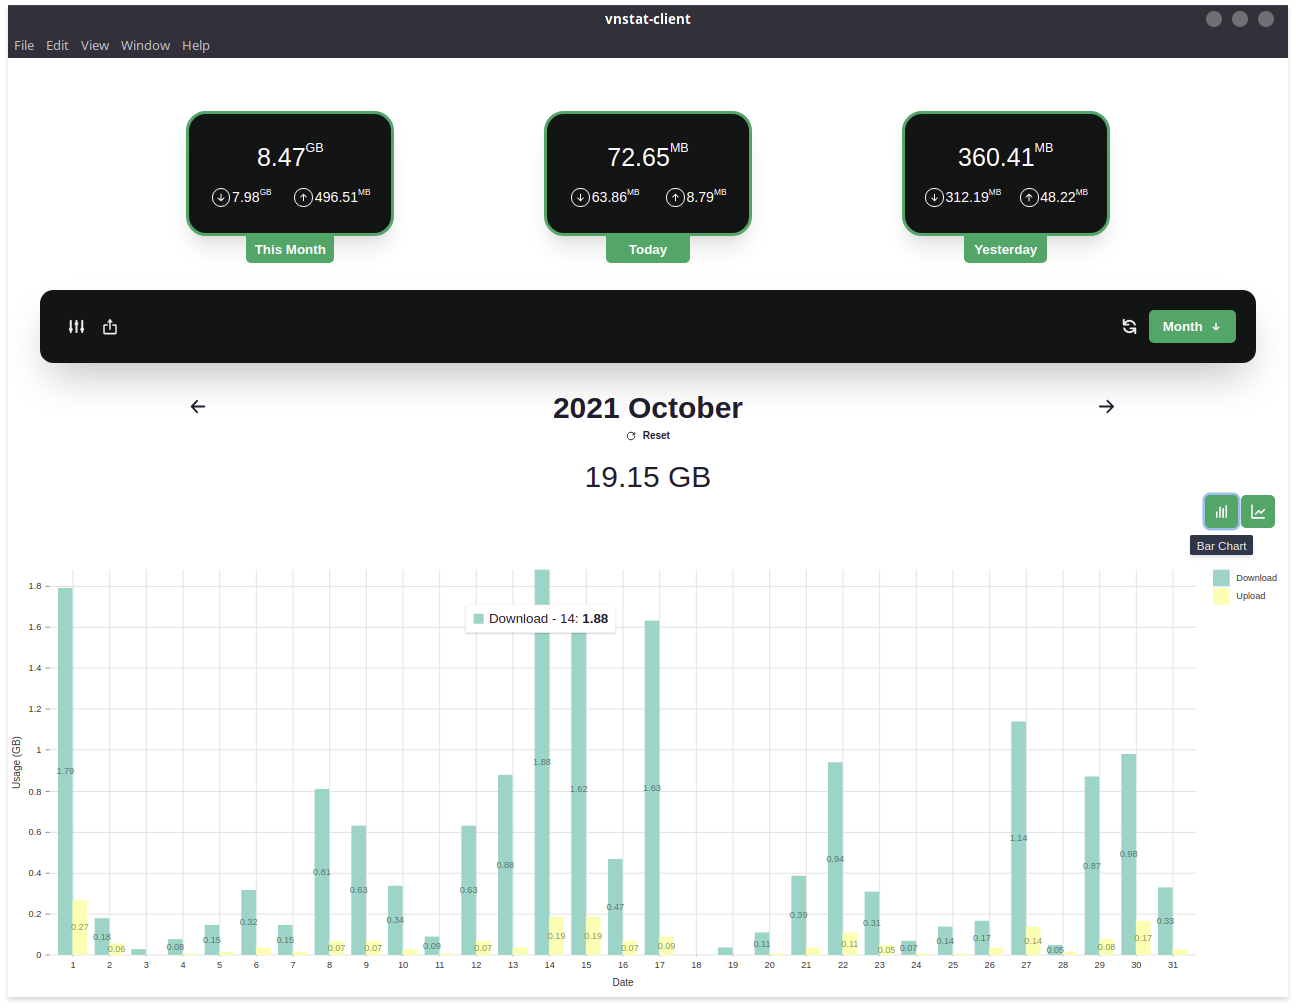
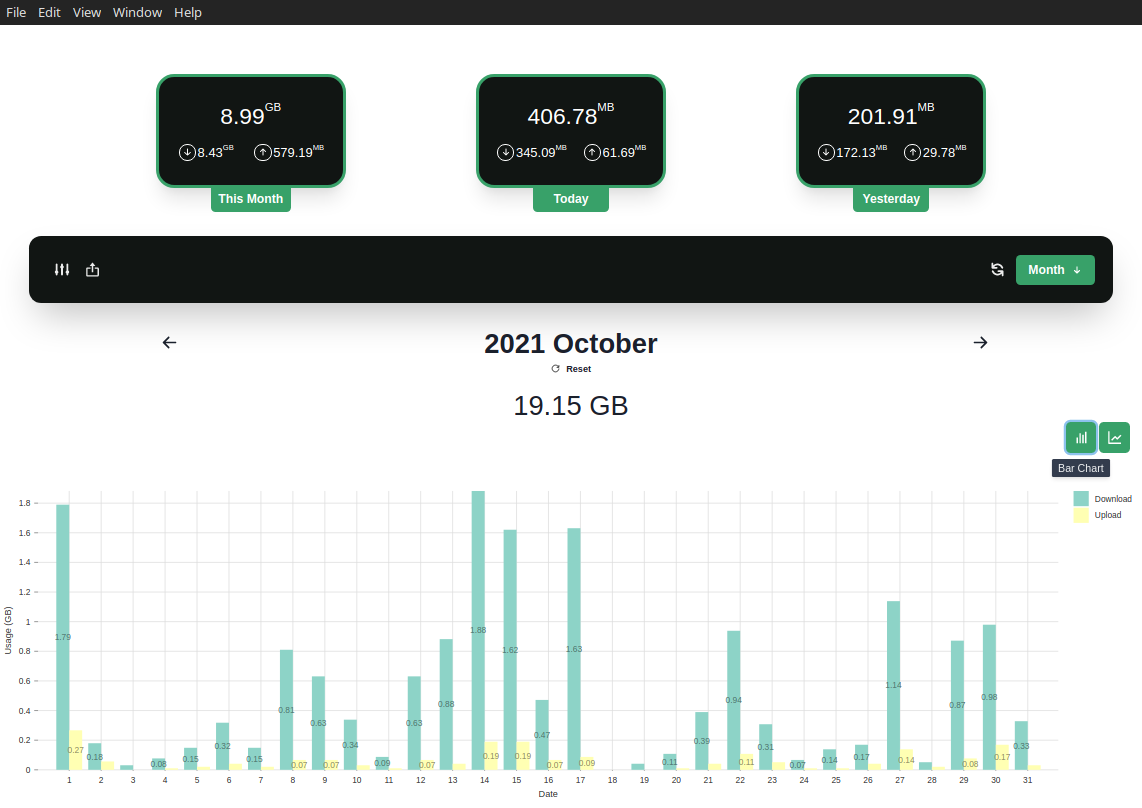
Fix some bugs

diff --git a/renderer/components/MainUsage.js b/renderer/components/MainUsage.js
@@ -1,9 +1,10 @@
 import { BsArrowDownShort, BsArrowUpShort } from "react-icons/bs";
 import { Box, Flex } from "@chakra-ui/react";
-import { format } from "date-fns";
 import { useEffect, useState } from "react";
-import { ipcRenderer } from "electron";
+import { useUsage } from "../context/dataUsage";
+
 export default function MainUsage() {
+	const { main, dataIsReady } = useUsage();
 	const [usage, setUsage] = useState([
 		{
 			interval: "today",
@@ -19,9 +20,8 @@ export default function MainUsage() {
 		},
 	]);
 	useEffect(() => {
-		ipcRenderer.send("getMainData", 2);
-		ipcRenderer.on("sendMainData", (e, result) => setUsage(result));
-	}, []);
+		setUsage(main);
+	}, [dataIsReady]);
 
 	return (
 		<Flex justify='space-evenly' width='95%' my={16}>
@@ -67,8 +67,8 @@ function UsageBox({ interval, tx = 0, rx = 0, total = 0 }) {
 
 				<Flex alignSelf='center' w='full' fontSize='17' justify='space-around'>
 					<Flex align='center'>
-						<Box border='white 2px solid' borderRadius='full' m='2px'>
-							<BsArrowDownShort size='1.1em' />
+						<Box m='2px'>
+							<BsArrowDownShort size='1.3em' />
 						</Box>
 						{(rx > 1024 ? rx / 1024 : rx)?.toFixed(2)}
 						<Box fontSize={10} alignSelf='start'>
@@ -76,8 +76,8 @@ function UsageBox({ interval, tx = 0, rx = 0, total = 0 }) {
 						</Box>
 					</Flex>
 					<Flex align='center'>
-						<Box border='white 2px solid' borderRadius='full' m='2px'>
-							<BsArrowUpShort size='1.1em' />
+						<Box m='2px'>
+							<BsArrowUpShort size='1.3em' />
 						</Box>
 						{(tx > 1024 ? tx / 1024 : tx)?.toFixed(2)}
 						<Box fontSize={10} alignSelf='start'>

diff --git a/renderer/pages/today.js b/renderer/pages/today.js
@@ -1,25 +1,21 @@
-import electron from "electron";
+import { useUsage } from "../context/dataUsage";
 
 import { useEffect, useState } from "react";
 import Chart from "../components/Chart";
 import useFilterDate from "../hooks/useFilterDate";
-
-import { getHours } from "date-fns";
 
 import SwitchBar from "../components/SwitchBar";
 import { Button, Heading, Flex } from "@chakra-ui/react";
 import { HiRefresh } from "react-icons/hi";
 import { format } from "date-fns/esm";
 export default function Hour() {
+	const { day, reloading, dataIsReady } = useUsage();
 	const [previousDays, setPreviousDays] = useState(0);
 	const [data, setData] = useState([]);
 
 	useEffect(() => {
-		electron.ipcRenderer.send("getDayData");
-		electron.ipcRenderer.on("dayData", (evt, result) => {
-			setData(result);
-		});
-	}, []);
+		setData(day);
+	}, [dataIsReady]);
 	const FilteredData = useFilterDate(data, "day", previousDays);
 	const dataUsage = FilteredData.reduce((a, b) => a + (b.tx + b.rx), 0);
 
@@ -42,7 +38,6 @@ export default function Hour() {
 		},
 	];
 
-	console.log(lineChartData, "\n---\n", FilteredData);
 	const barChartData = FilteredData.map((e) => ({
 		date: format(new Date(e.date), "haaa"),
 		Download: (e.rx / 1024).toFixed(2),
@@ -57,7 +52,10 @@ export default function Hour() {
 					<Button
 						leftIcon={<HiRefresh size='1.4em' />}
 						mr={1}
-						onClick={() => router.replace(router.asPath)}>
+						onClick={() => {
+							reloading();
+							router.replace(router.asPath);
+						}}>
 						Refresh
 					</Button>
 				</Flex>

diff --git a/renderer/pages/index.js b/renderer/pages/index.js
@@ -3,28 +3,24 @@ import { useState, useEffect } from "react";
 import useFilterDate from "../hooks/useFilterDate";
 import { getDate } from "date-fns";
 
-import { ipcRenderer } from "electron";
 import { useRouter } from "next/router";
 
 import SwitchBar from "../components/SwitchBar";
 import { Button, Heading, Flex } from "@chakra-ui/react";
 import { HiRefresh } from "react-icons/hi";
 
+import { useUsage } from "../context/dataUsage";
+
 export default function Month() {
 	const router = useRouter();
-
 	const [previousMonths, setPreviousMonths] = useState(0);
 	const [data, setData] = useState([]);
 
-	useEffect(() => {
-		ipcRenderer.send("getMonthData");
-		ipcRenderer.on("monthData", (evt, result) => setData(result));
+	const { month, reloading, dataIsReady } = useUsage();
 
-		// Cleaning
-		return () => {
-			ipcRenderer.removeAllListeners("monthData", "getMonthData");
-		};
-	}, []);
+	useEffect(async () => {
+		setData(month);
+	}, [dataIsReady]);
 
 	const FilteredData = useFilterDate(data, "month", previousMonths);
 	const dataUsage = FilteredData.reduce((a, b) => a + (b.tx + b.rx), 0);
@@ -59,7 +55,10 @@ export default function Month() {
 					<Button
 						leftIcon={<HiRefresh size='1.4em' />}
 						mr={1}
-						onClick={() => router.replace(router.asPath)}>
+						onClick={() => {
+							reloading();
+							router.replace(router.asPath);
+						}}>
 						Refresh
 					</Button>
 				</Flex>

diff --git a/renderer/pages/year.js b/renderer/pages/year.js
@@ -1,4 +1,4 @@
-import { ipcRenderer } from "electron";
+import { useUsage } from "../context/dataUsage";
 
 import { getMonth } from "date-fns";
 import Chart from "../components/Chart";
@@ -10,13 +10,15 @@ import { Button, Heading, Flex } from "@chakra-ui/react";
 import { HiRefresh } from "react-icons/hi";
 
 export default function Year() {
+	const { year, reloading, dataIsReady } = useUsage();
+
 	const [PreviousYears, setPreviousYears] = useState(0);
 	const [data, setData] = useState([]);
 
 	useEffect(() => {
-		ipcRenderer.send("getYearData");
-		ipcRenderer.on("yearData", (evt, result) => setData(result));
-	}, []);
+		setData(year);
+	}, [dataIsReady]);
+
 	const FilteredData = useFilterDate(data, "year", PreviousYears);
 	const dataUsage = FilteredData.reduce((a, b) => a + (b.tx + b.rx), 0);
 
@@ -50,7 +52,10 @@ export default function Year() {
 					<Button
 						leftIcon={<HiRefresh size='1.4em' />}
 						mr={1}
-						onClick={() => router.replace(router.asPath)}>
+						onClick={() => {
+							reloading();
+							router.replace(router.asPath);
+						}}>
 						Refresh
 					</Button>
 				</Flex>

diff --git a/renderer/context/dataUsage.js b/renderer/context/dataUsage.js
@@ -1,0 +1,43 @@
+import { useContext, useState, useEffect, createContext } from "react";
+import { ipcRenderer } from "electron";
+import { format } from "date-fns";
+export const UsageContext = createContext();
+
+export default function UsageProvider({ children }) {
+	const [Usage, setUsage] = useState({
+		month: [],
+		day: [],
+		year: [],
+		main: [],
+	});
+
+	const [dataIsReady, setDataIsReady] = useState(false);
+
+	useEffect(() => {
+		setDataIsReady(false);
+		ipcRenderer.on("sendUsage", (evt, result) => {
+			setUsage(result);
+			setDataIsReady(true);
+		});
+	}, []);
+
+	function reloading() {
+		setDataIsReady(false);
+		typeof ipcRenderer !== "undefined" && ipcRenderer.send("reload-data");
+		setDataIsReady(true);
+	}
+
+	const value = {
+		...Usage,
+		dataIsReady,
+		reloading,
+	};
+
+	return (
+		<UsageContext.Provider value={value}>{children}</UsageContext.Provider>
+	);
+}
+
+export function useUsage() {
+	return useContext(UsageContext);
+}

diff --git a/renderer/pages/_app.js b/renderer/pages/_app.js
@@ -1,10 +1,13 @@
-import { useEffect, useState } from "react";
+import { useState } from "react";
 import Head from "next/head";
 import "tailwindcss/tailwind.css";
 
 import { ChakraProvider } from "@chakra-ui/react";
 import PageLayout from "../layout/PageLayout";
 import Router from "next/router";
+
+// context
+import UsageProvider from "../context/dataUsage";
 
 export default function App(props) {
 	const { Component, pageProps } = props;
@@ -26,9 +29,11 @@ export default function App(props) {
 				/>
 			</Head>
 			<ChakraProvider>
-				<PageLayout isLoading={isLoading}>
-					<Component {...pageProps} />
-				</PageLayout>
+				<UsageProvider>
+					<PageLayout isLoading={isLoading}>
+						<Component {...pageProps} />
+					</PageLayout>
+				</UsageProvider>
 			</ChakraProvider>
 		</>
 	);

diff --git a/renderer/components/MainBar.js b/renderer/components/MainBar.js
@@ -1,6 +1,6 @@
 import { useState } from "react";
 import { useRouter } from "next/router";
-
+import { useUsage } from "../context/dataUsage";
 import {
 	Menu,
 	MenuButton,
@@ -15,6 +15,7 @@ import { HiArrowSmDown, HiAdjustments, HiRefresh } from "react-icons/hi";
 import ExportMenu from "./ExportMenu";
 
 export default function ChooseBar() {
+	const { reloading } = useUsage();
 	const pages = [
 		{
 			title: "today",
@@ -65,7 +66,10 @@ export default function ChooseBar() {
 						colorScheme='whiteAlpha'
 						textColor='whiteAlpha.900'
 						mr={1}
-						onClick={() => router.replace(router.asPath)}
+						onClick={() => {
+							reloading();
+							router.replace(router.asPath);
+						}}
 					/>
 				</Tooltip>
 

diff --git a/renderer/layout/PageLayout.js b/renderer/layout/PageLayout.js
@@ -1,7 +1,8 @@
 import MainBar from "../components/MainBar";
 import MainUsage from "../components/MainUsage";
 
-import { Flex, Spinner, Box } from "@chakra-ui/react";
+import { Flex, Spinner } from "@chakra-ui/react";
+
 export default function PageLayout({ children, isLoading }) {
 	return (
 		<>
